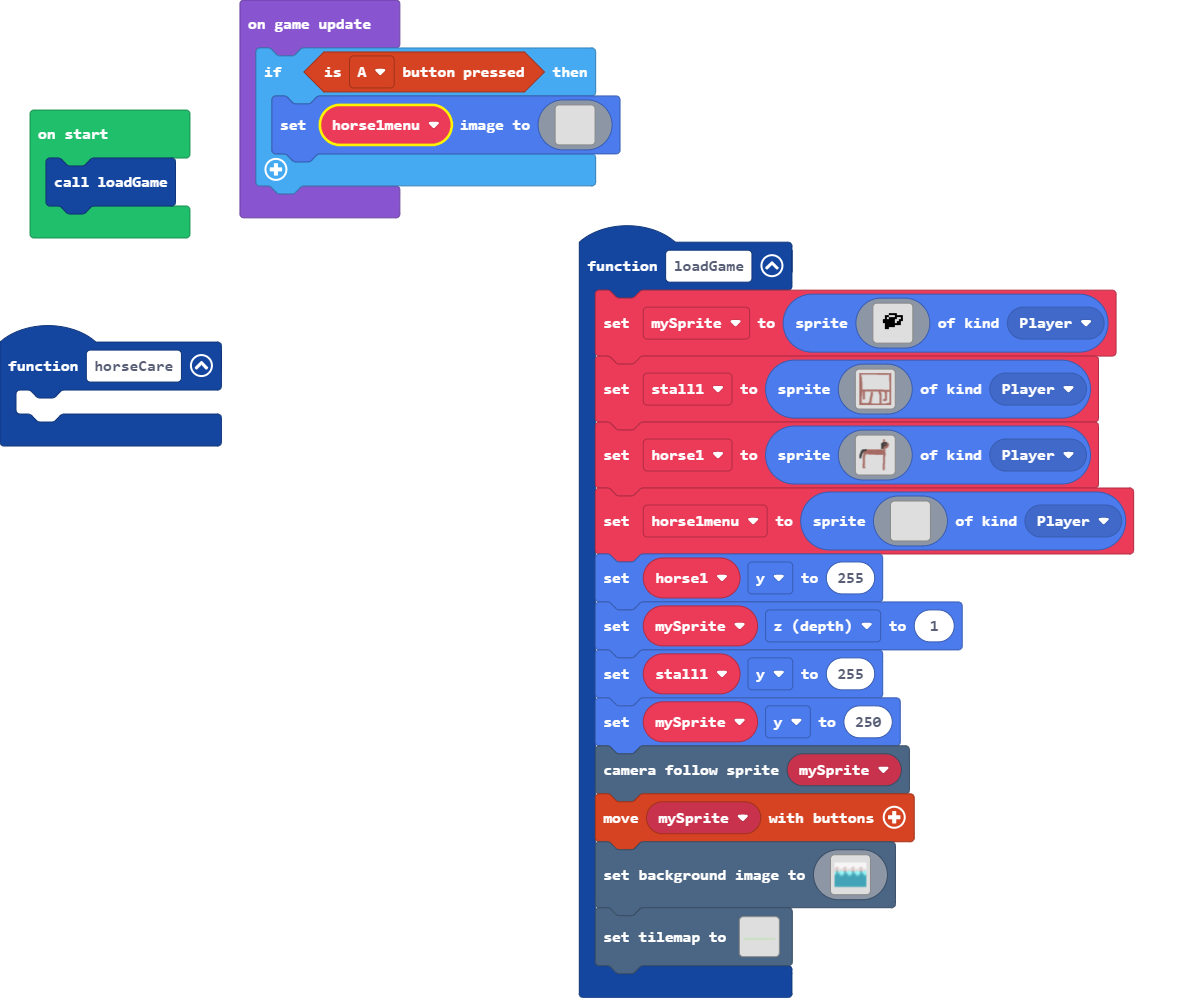
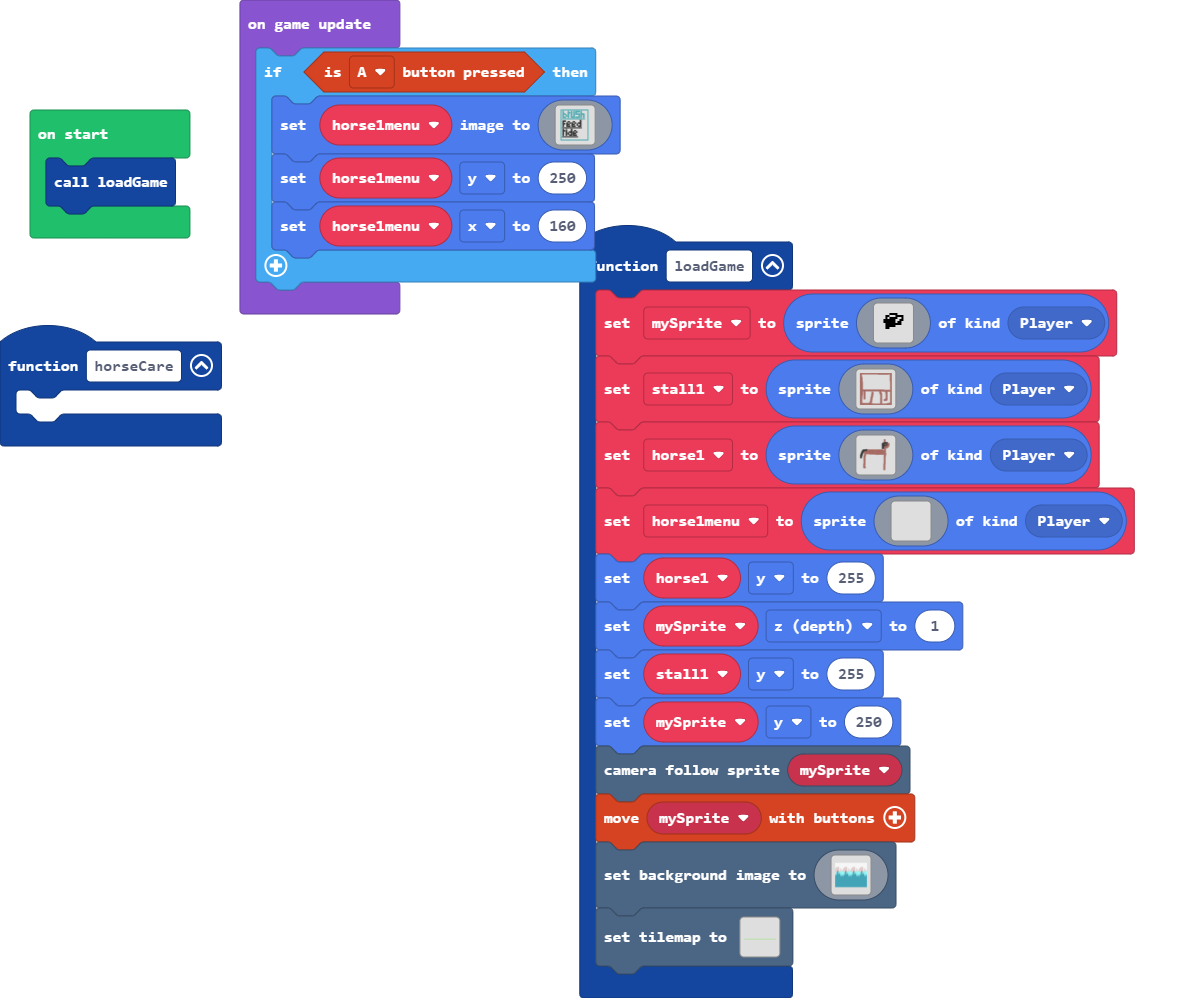
Update pxt.json, main.blocks, main.ts, images.g.jres, images.g.ts

diff --git a/images.g.ts b/images.g.ts
@@ -823,6 +823,165 @@ eeeeeeeeeeeeeeeeeeeeeeeeeeeeeeeeeeeeeeeeeeeeeeeeeeeeeeeeeeeeeeeeeeeeeeeeeeeeeeee
 .6666666666666666666666.
 ........................
 `;
+            case "image8":
+            case "myImage3":return img`
+.............................................
+.6666666666666666666666666666666666666666666.
+.6.........................................6.
+.6..ff......ff...ff..ff.fffffff.ff.........6.
+.6..ff......ff...ff..ff.fffffff.ff.........6.
+.6..ff......ffff.ff..ff.ff......ff.........6.
+.6..ff......ffff.ff..ff.ff......ff.........6.
+.6..fffff...ff...ff..ff.fffffff.ffffff.....6.
+.6..fffff...ff...ff..ff.fffffff.ffffff.....6.
+.6..ff...ff.ff...ff..ff......ff.ff..ff.....6.
+.6..ff...ff.ff...ff..ff......ff.ff..ff.....6.
+.6..ff...ff.ff...ff..ff......ff.ff..ff.....6.
+.6..fffff...ff...ffffff.fffffff.ff..ff.....6.
+.6..fffff...ff...ffffff.fffffff.ff..ff.....6.
+.6.........................................6.
+.6.ffffffffffffffffffffffffffffffffffff....6.
+.6.........................................6.
+.6.............................66..........6.
+.6..66666......................66..........6.
+.6..66666...666.....666........66..........6.
+.6..66......666.....666........66..........6.
+.6..66....66...66.66...66...66666..........6.
+.6..6666..66...66.66...66...66666..........6.
+.6..6666..66666...66666...66...66..........6.
+.6..66....66666...66666...66...66..........6.
+.6..66....66......66......66...66..........6.
+.6..66....666666..666666....66666..........6.
+.6..66....666666..666666....66666..........6.
+.6.........................................6.
+.6.6666666666666666666666666666666.........6.
+.6.........................................6.
+.6..ff...ff......ff........................6.
+.6..ff...........ff........................6.
+.6..ffff.ff......ff...fff..................6.
+.6..ffff.ff......ff...fff..................6.
+.6..ff...ff...fffff.ff...ff................6.
+.6..ff...ff...fffff.ff...ff................6.
+.6..ff...ff.ff...ff.fffff..................6.
+.6..ff...ff.ff...ff.fffff..................6.
+.6..ff...ff.ff...ff.ff.....................6.
+.6..ff...ff...fffff.ffffff.................6.
+.6..ff...ff...fffff.ffffff.................6.
+.6.........................................6.
+.6.fffffffffffffffffffffffff...............6.
+.6.........................................6.
+.6.........................................6.
+.6.........................................6.
+.6.........................................6.
+.6666666666666666666666666666666666666666666.
+.............................................
+`;
+            case "image9":
+            case "myImage4":return img`
+.............................................
+.6666666666666666666666666666666666666666666.
+.6.........................................6.
+.6..ff......ff...ff..ff.fffffff.ff.........6.
+.6..ff......ff...ff..ff.fffffff.ff.........6.
+.6..ff......ffff.ff..ff.ff......ff.........6.
+.6..ff......ffff.ff..ff.ff......ff.........6.
+.6..fffff...ff...ff..ff.fffffff.ffffff.....6.
+.6..fffff...ff...ff..ff.fffffff.ffffff.....6.
+.6..ff...ff.ff...ff..ff......ff.ff..ff.....6.
+.6..ff...ff.ff...ff..ff......ff.ff..ff.....6.
+.6..ff...ff.ff...ff..ff......ff.ff..ff.....6.
+.6..fffff...ff...ffffff.fffffff.ff..ff.....6.
+.6..fffff...ff...ffffff.fffffff.ff..ff.....6.
+.6.........................................6.
+.6.ffffffffffffffffffffffffffffffffffff....6.
+.6.........................................6.
+.6.............................ff..........6.
+.6..fffff......................ff..........6.
+.6..fffff...fff.....fff........ff..........6.
+.6..ff......fff.....fff........ff..........6.
+.6..ff....ff...ff.ff...ff...fffff..........6.
+.6..ffff..ff...ff.ff...ff...fffff..........6.
+.6..ffff..fffff...fffff...ff...ff..........6.
+.6..ff....fffff...fffff...ff...ff..........6.
+.6..ff....ff......ff......ff...ff..........6.
+.6..ff....ffffff..ffffff....fffff..........6.
+.6..ff....ffffff..ffffff....fffff..........6.
+.6.........................................6.
+.6.fffffffffffffffffffffffffffffff.........6.
+.6.........................................6.
+.6..66...66......66........................6.
+.6..66...........66........................6.
+.6..6666.66......66...666..................6.
+.6..6666.66......66...666..................6.
+.6..66...66...66666.66...66................6.
+.6..66...66...66666.66...66................6.
+.6..66...66.66...66.66666..................6.
+.6..66...66.66...66.66666..................6.
+.6..66...66.66...66.66.....................6.
+.6..66...66...66666.666666.................6.
+.6..66...66...66666.666666.................6.
+.6.........................................6.
+.6.6666666666666666666666666...............6.
+.6.........................................6.
+.6.........................................6.
+.6.........................................6.
+.6.........................................6.
+.6666666666666666666666666666666666666666666.
+.............................................
+`;
+            case "image7":
+            case "myImage2":return img`
+.............................................
+.6666666666666666666666666666666666666666666.
+.6.........................................6.
+.6..66......66...66..66.6666666.66.........6.
+.6..66......66...66..66.6666666.66.........6.
+.6..66......6666.66..66.66......66.........6.
+.6..66......6666.66..66.66......66.........6.
+.6..66666...66...66..66.6666666.666666.....6.
+.6..66666...66...66..66.6666666.666666.....6.
+.6..66...66.66...66..66......66.66..66.....6.
+.6..66...66.66...66..66......66.66..66.....6.
+.6..66...66.66...66..66......66.66..66.....6.
+.6..66666...66...666666.6666666.66..66.....6.
+.6..66666...66...666666.6666666.66..66.....6.
+.6.........................................6.
+.6.666666666666666666666666666666666666....6.
+.6.........................................6.
+.6.............................ff..........6.
+.6..fffff......................ff..........6.
+.6..fffff...fff.....fff........ff..........6.
+.6..ff......fff.....fff........ff..........6.
+.6..ff....ff...ff.ff...ff...fffff..........6.
+.6..ffff..ff...ff.ff...ff...fffff..........6.
+.6..ffff..fffff...fffff...ff...ff..........6.
+.6..ff....fffff...fffff...ff...ff..........6.
+.6..ff....ff......ff......ff...ff..........6.
+.6..ff....ffffff..ffffff....fffff..........6.
+.6..ff....ffffff..ffffff....fffff..........6.
+.6.........................................6.
+.6.fffffffffffffffffffffffffffffff.........6.
+.6.........................................6.
+.6..ff...ff......ff........................6.
+.6..ff...........ff........................6.
+.6..ffff.ff......ff...fff..................6.
+.6..ffff.ff......ff...fff..................6.
+.6..ff...ff...fffff.ff...ff................6.
+.6..ff...ff...fffff.ff...ff................6.
+.6..ff...ff.ff...ff.fffff..................6.
+.6..ff...ff.ff...ff.fffff..................6.
+.6..ff...ff.ff...ff.ff.....................6.
+.6..ff...ff...fffff.ffffff.................6.
+.6..ff...ff...fffff.ffffff.................6.
+.6.........................................6.
+.6.fffffffffffffffffffffffff...............6.
+.6.........................................6.
+.6.........................................6.
+.6.........................................6.
+.6.........................................6.
+.6666666666666666666666666666666666666666666.
+.............................................
+`;
         }
         return null;
     })

diff --git a/main.ts b/main.ts
@@ -177,23 +177,8 @@ let mySprite: Sprite = null
 loadGame()
 game.onUpdate(function () {
     if (controller.A.isPressed()) {
-        horse1menu.setImage(img`
-            . . . . . . . . . . . . . . . . 
-            . . . . . . . . . . . . . . . . 
-            . . . . . . . . . . . . . . . . 
-            . . . . . . . . . . . . . . . . 
-            . . . . . . . . . . . . . . . . 
-            . . . . . . . . . . . . . . . . 
-            . . . . . . . . . . . . . . . . 
-            . . . . . . . . . . . . . . . . 
-            . . . . . . . . . . . . . . . . 
-            . . . . . . . . . . . . . . . . 
-            . . . . . . . . . . . . . . . . 
-            . . . . . . . . . . . . . . . . 
-            . . . . . . . . . . . . . . . . 
-            . . . . . . . . . . . . . . . . 
-            . . . . . . . . . . . . . . . . 
-            . . . . . . . . . . . . . . . . 
-            `)
+        horse1menu.setImage(assets.image`myImage2`)
+        horse1menu.y = 250
+        horse1menu.x = 160
     }
 })
